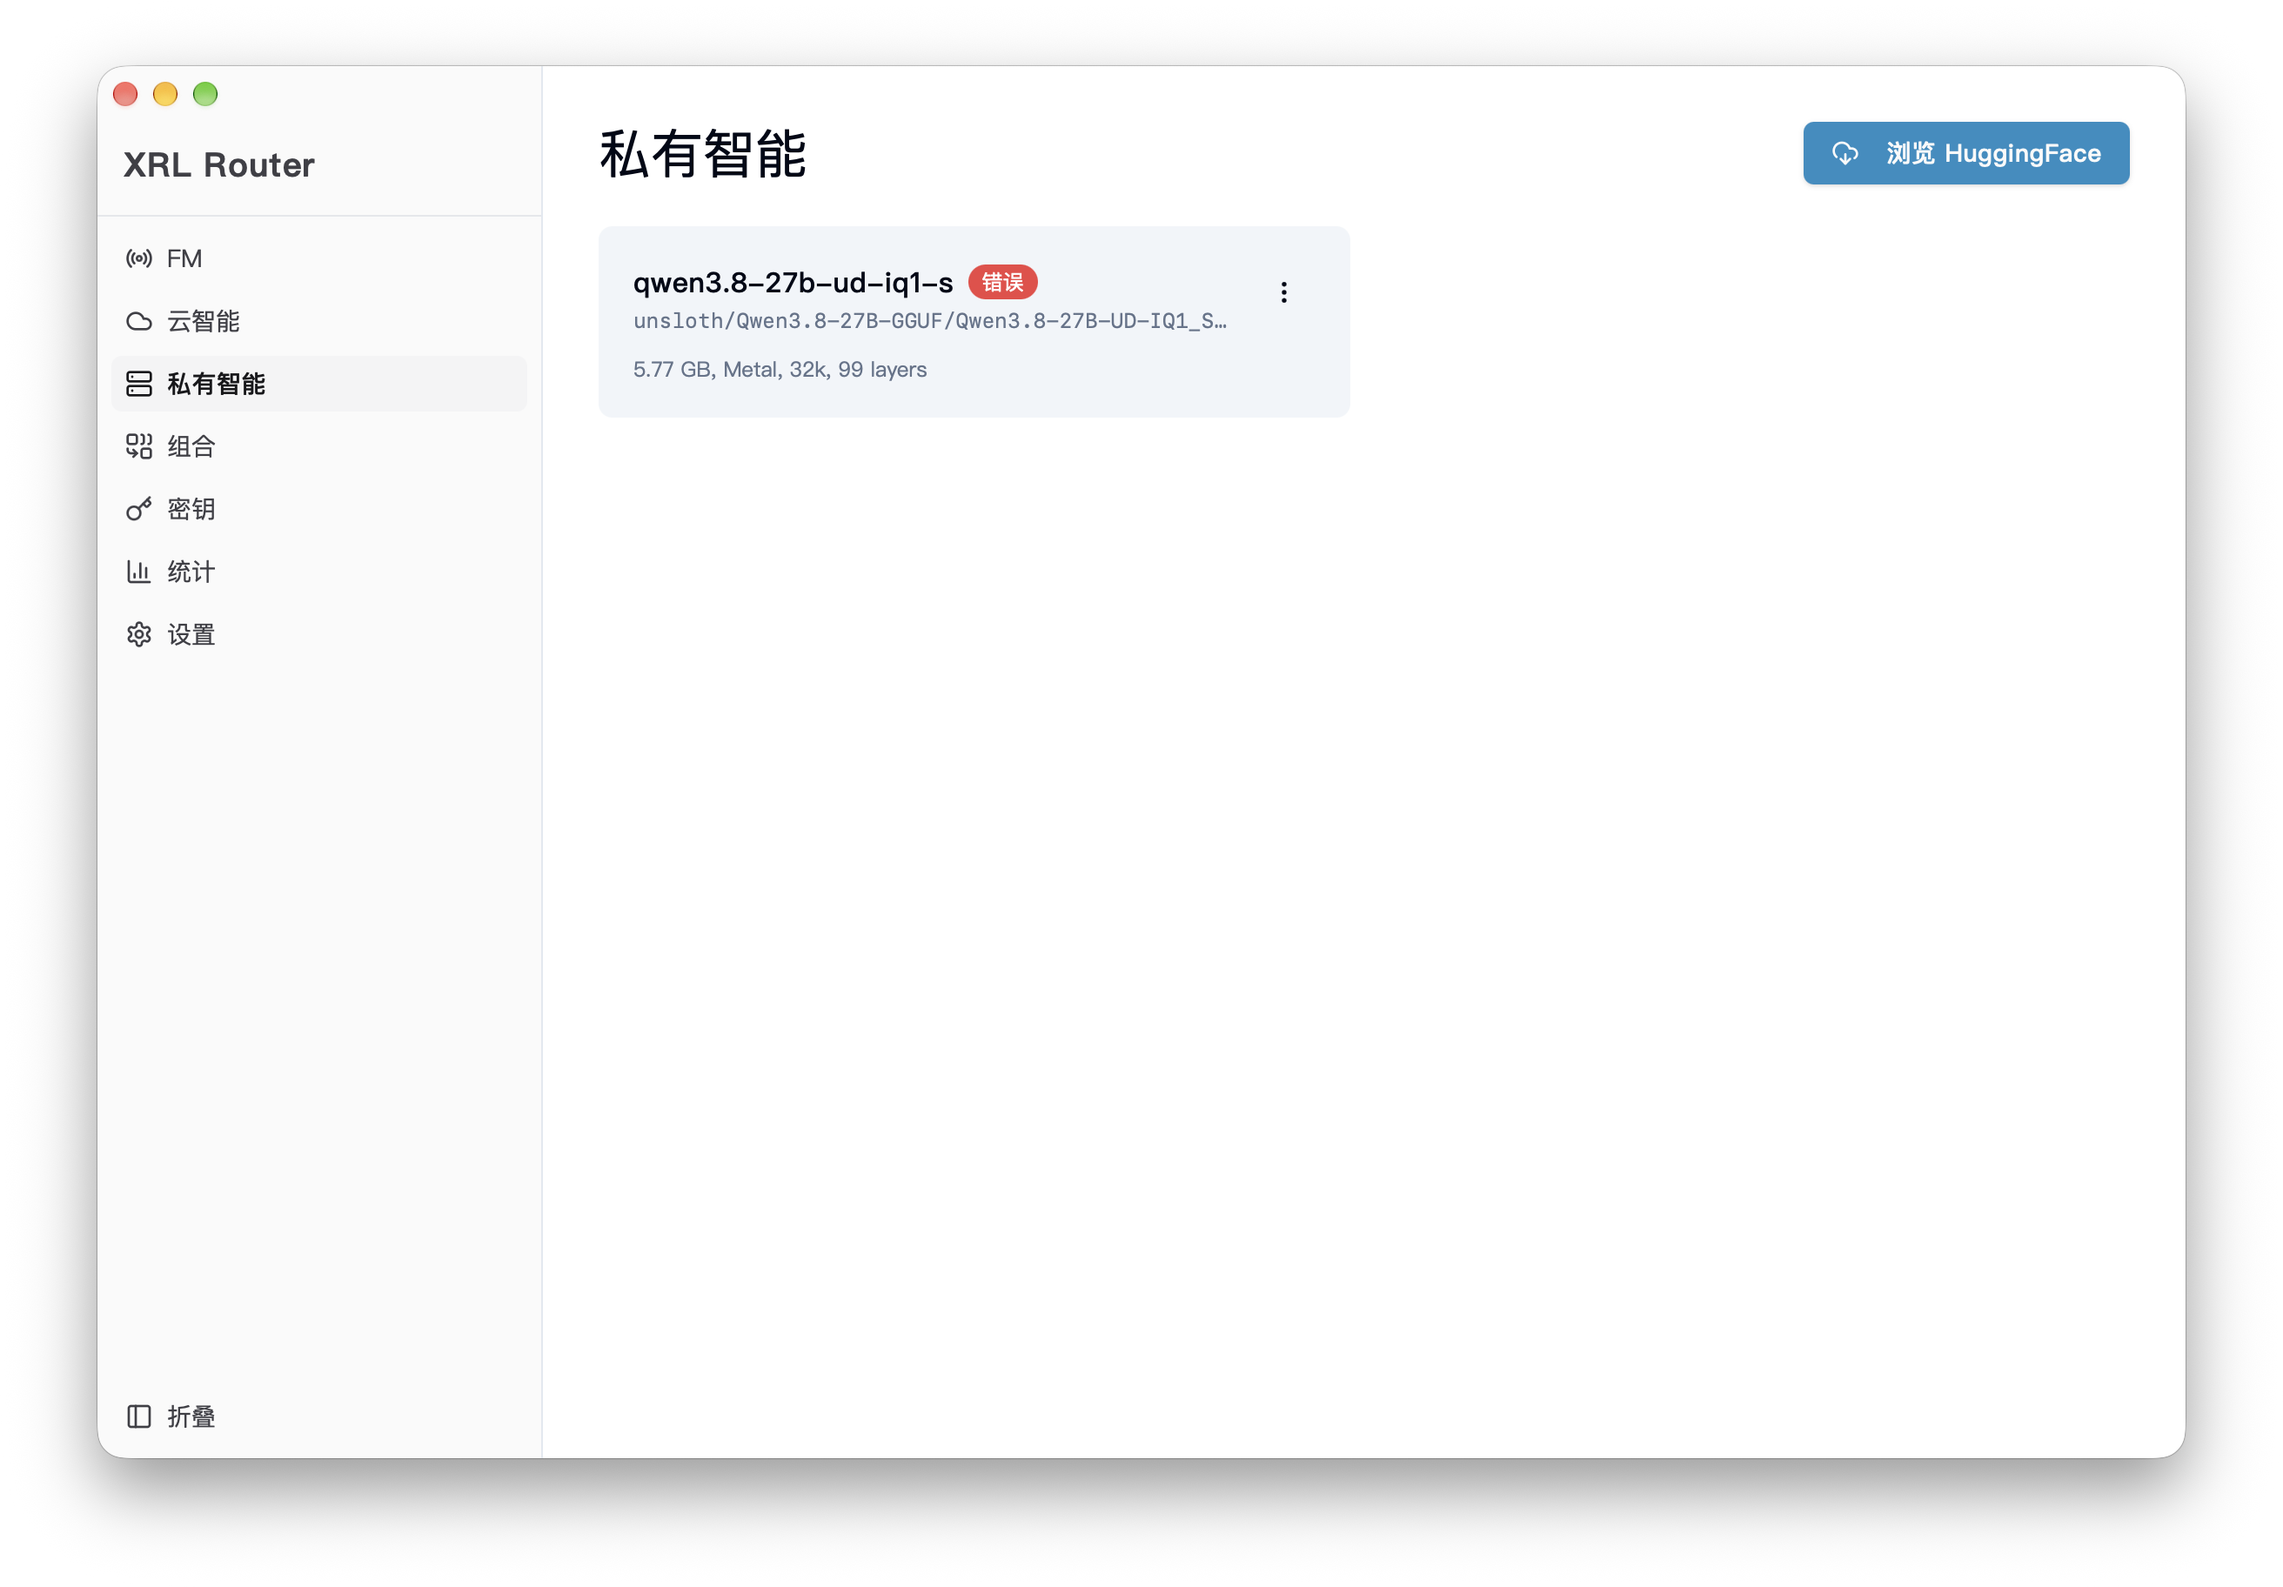
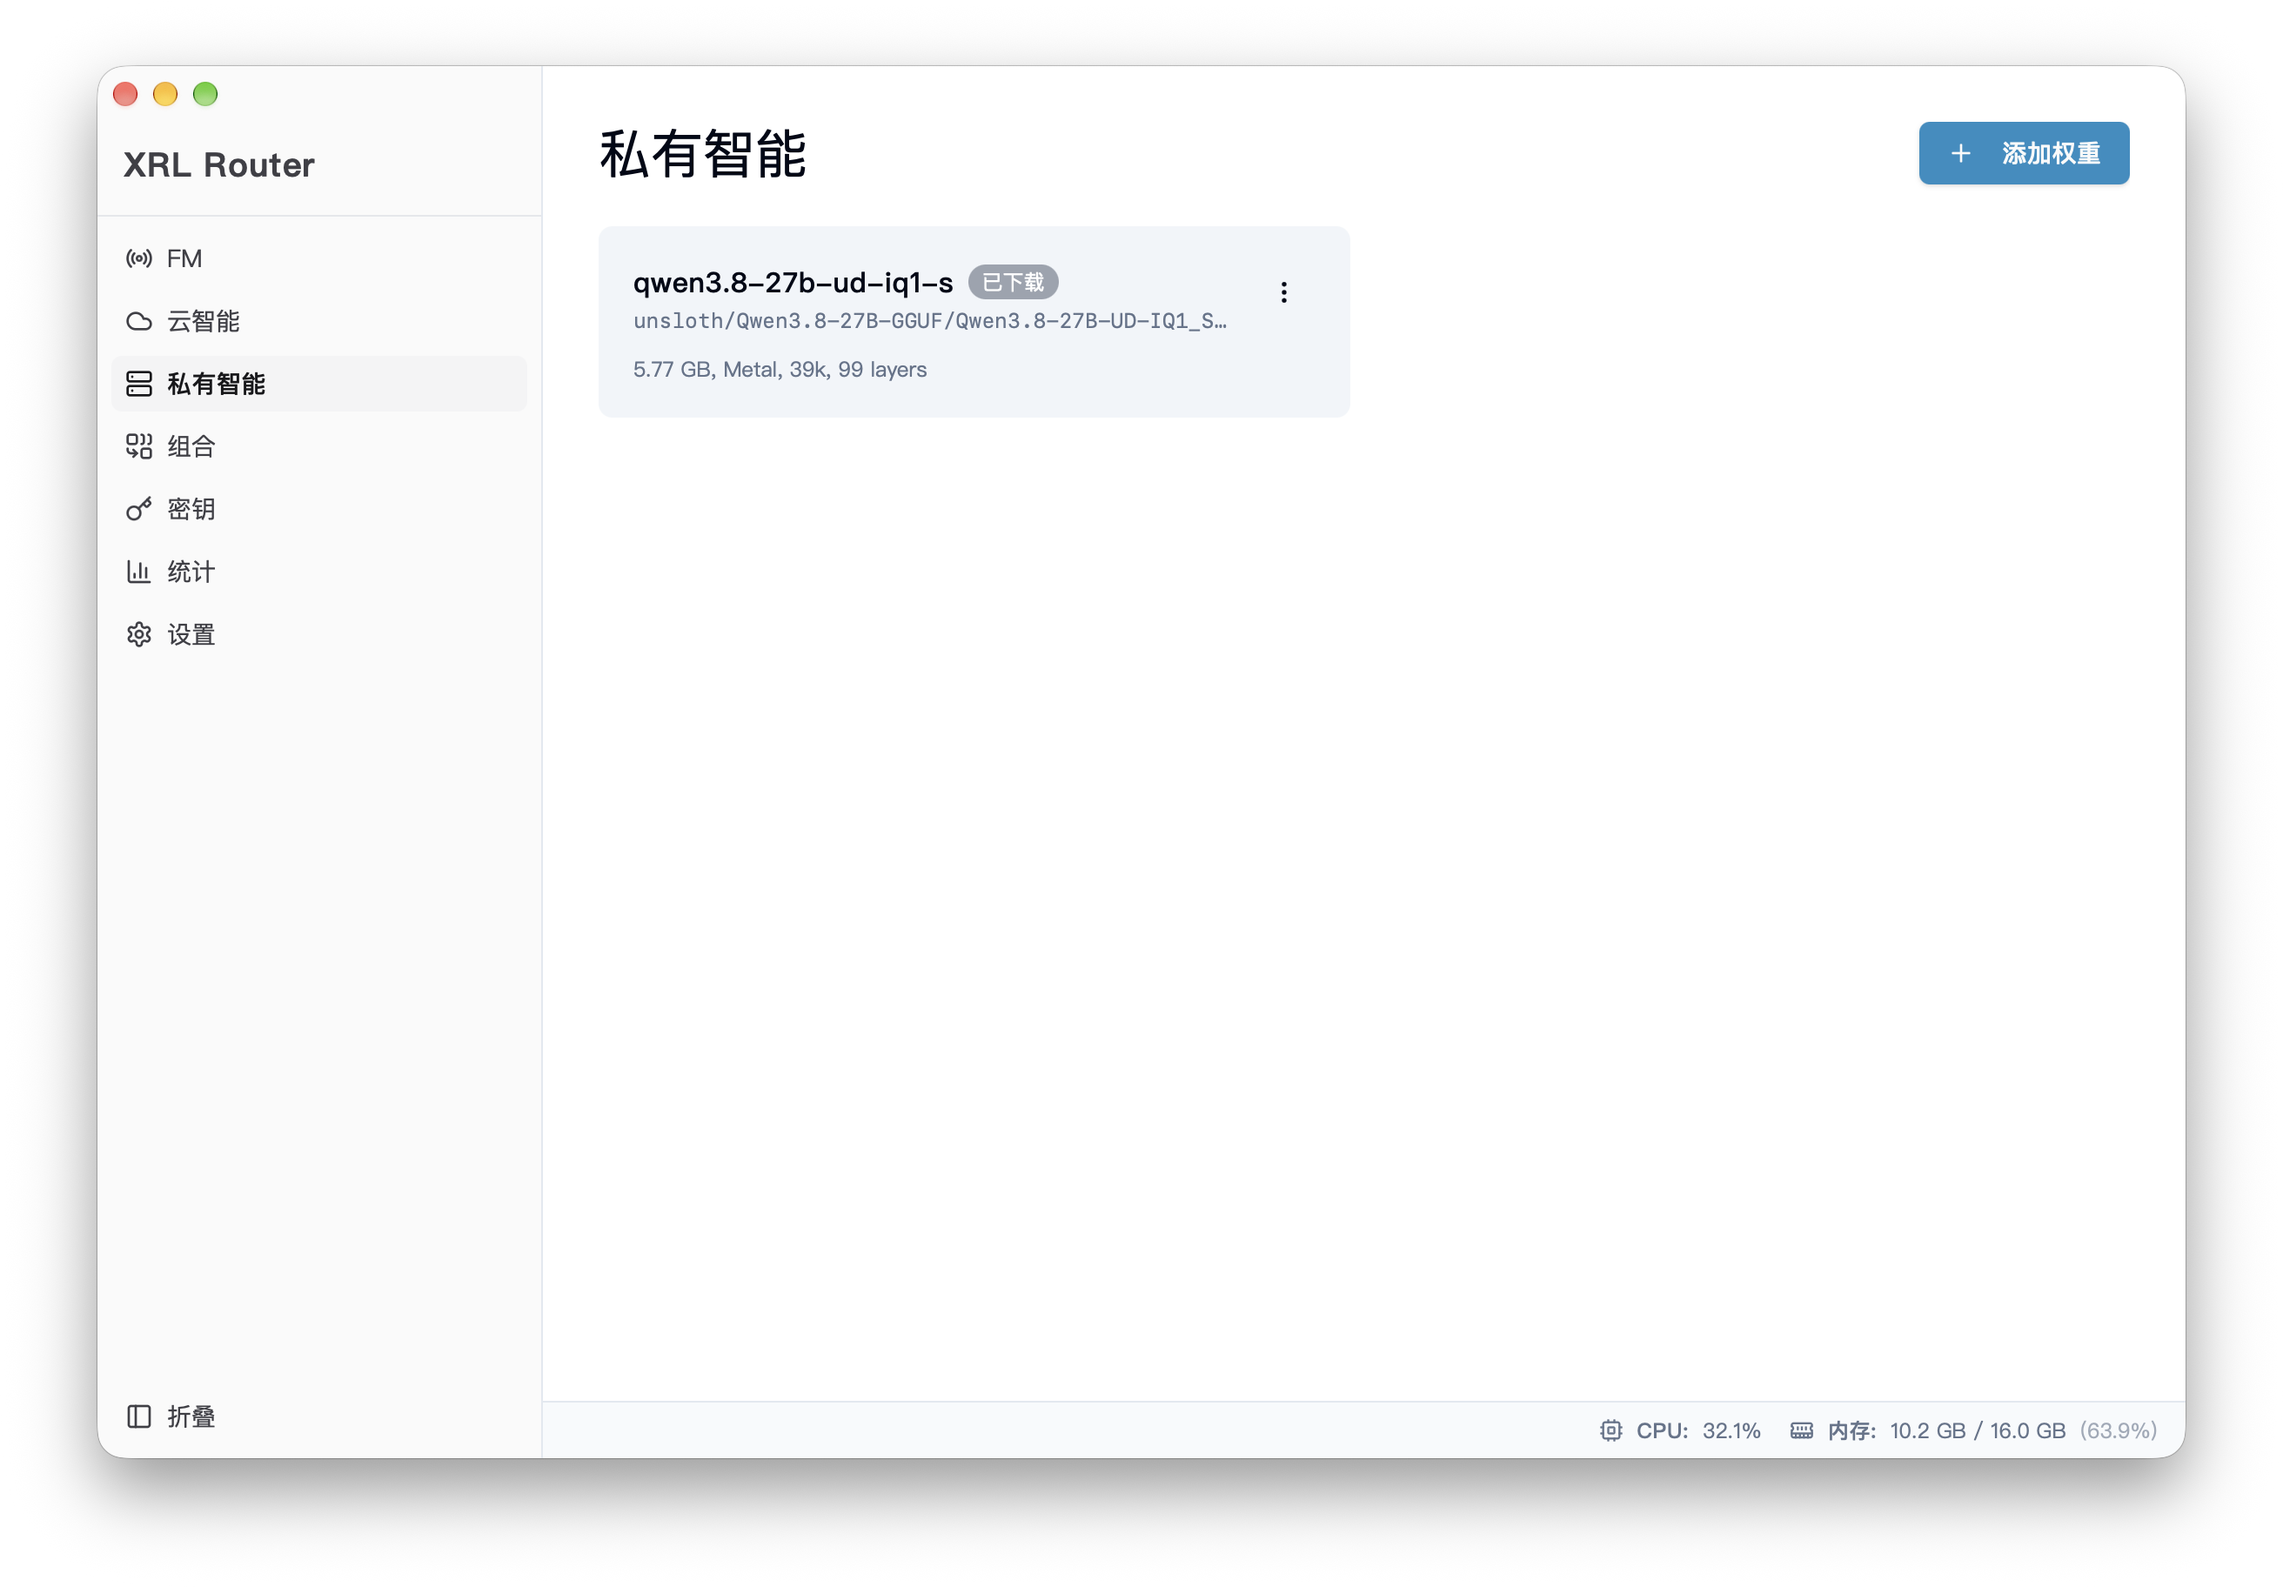
docs: ADR-049 + V21 schema + 截图更新 + 版本号 bump
- DECISIONS.md: 新增 ADR-049 (Windows 壁纸 Z 序锚定, 防盖桌面图标)
- module-database.md: V21 schema 更新 (local_models.thinking 列)
- local.ai.png: 截图更新
- tauri.conf.json: 版本号 bump (26.8.28+2315 → 26.8.29+1410)

Changed region(s): [[0.6875, 0.875, 0.9375, 0.9062], [0.7812, 0.0625, 0.9062, 0.125], [0.4062, 0.1562, 0.4688, 0.1875]]

diff --git a/docs/DECISIONS.md b/docs/DECISIONS.md
@@ -757,3 +757,91 @@ Tauri 默认使用系统原生标题栏。Windows 11 的原生标题栏与自定
 - 首次启动需下载引擎（~50MB），需要网络连接
 - GPU 后端依赖系统驱动（CUDA/Vulkan/ROCm 需预装）
 
+---
+
+## ADR-049: Windows 壁纸 Z 序锚定（防盖桌面图标）
+
+**日期**: 2026-08-29  
+**状态**: 已接受
+
+### 背景
+
+ADR-043 的透明 WebView + WorkerW 挂载真机反馈：**壁纸窗口盖住桌面图标**。
+挂载链本身正确（`SetParent` 成功、子窗枚举验证通过），问题全在 Z 序：
+
+1. Win8+ `SetParent` 对 popup 风格窗口只做"重设父链"，窗口仍留在顶层
+   Z 序（ADR-042 注记的历史结论）——在宿主内盖住 `SHELLDLL_DefView` 链
+   （桌面图标层）；
+2. `fit_monitor` 的 `SetWindowPos` 未带 `SWP_NOZORDER`，默认 `HWND_TOP`
+   会把壁纸窗顶到宿主上层，进一步加重盖图标。
+
+### 决策
+
+1. **Z 序锚定**（`ensure_bottom_zorder`）：挂载后手动转 `WS_CHILD`
+   （清 `WS_POPUP`）使窗口真正参与宿主子窗 Z 序，`SetWindowPos(
+   HWND_BOTTOM, SWP_NOMOVE|SWP_NOSIZE|SWP_NOACTIVATE)` 沉到宿主最底——
+   位于 `SHELLDLL_DefView` 链之下；首次失败 250ms 重试一次，仍失败不
+   致命（复查兜底）；
+2. **验证 = `GW_HWNDNEXT`**：壁纸窗之下无兄弟窗即锚定生效；有则说明
+   系统仍在重排窗口树，由调用方重试；
+3. **后续不扰 Z 序**：`fit_monitor` 的 `SetWindowPos` 补 `SWP_NOZORDER`
+   （否则默认 HWND_TOP 会撤销锚定）；
+4. **show 后复查**：show / WebView2 初始化可能重排宿主子窗，故 `show()`
+   后 1.5s 在主线程复查一次并幂等重锚（`recheck_zorder`），失败仅 warn。
+
+### 备选与权衡
+
+- **建窗即 `WS_CHILD` 子窗**（ADR-042 GDI 版做法）：tauri builder 不暴露
+  该样式，仍需运行时 `SetWindowLongPtr` 补——与现方案等价，无收益；
+- **照社区插件只做 SetParent**：已核实 `tauri-plugin-desktop-underlay`
+  源码不做任何 Z 序处理（仅 `SetParent`），靠系统默认排序在部分真机上
+  即复现盖图标 → 否决。
+
+### 代价
+
+- 挂载链多两次重试 + 一次延迟复查的主线程 dispatch，代码复杂度上升；
+- 锚定依赖宿主子窗 Z 序语义，未来 Windows 布局变化需重新验证（与
+  ADR-041/043 的 WorkerW 配方同命运）。
+
+---
+
+## ADR-050: 本地模型路由优先与云智能管理面隔离
+
+**日期**: 2026-08-29  
+**状态**: 已接受
+
+### 背景
+
+本地模型（私有智能）以普通 Provider 身份注册进网关，与云端 Provider 共用同一套路由管线。
+两个问题浮现：
+
+1. **路由优先级缺失**：`resolve_route_candidates()` 按 `sort_order ASC, created_at ASC` 排序，
+   本地引擎注册时取 `next_sort_order()`（追加到末尾），导致同名模型云端 Provider 反而优先。
+2. **管理面泄漏**：`/api/providers` 返回全部 Provider（含 `local-*` 前缀的本地引擎），
+   云智能页面（ProvidersView）出现「本地 · X」卡片，与私有智能独立管理页职责重叠。
+
+### 决策
+
+1. **路由优先级**：组合 > 私有智能 > 云智能。`resolve_route_candidates()` 的 ORDER BY 改为
+   `CASE WHEN tier='local' THEN 0 ELSE 1 END, sort_order ASC, created_at ASC`——本地模型恒优先，
+   其后按 sort_order 排序。组合别名解析（`resolve_combo()`）先展开成员，成员内部同样遵循此优先级。
+2. **管理面隔离**：`/api/providers` 过滤 `local-*` 前缀（云智能页面不显示本地引擎），但
+   `/api/models` 和 `/api/keys` 不过滤——组合成员选择器和密钥白名单弹窗需要看到私有模型。
+3. **名称冲突检查**：本地模型创建/编辑时通过 `alias_taken()` 同时检查 models 表和 combos 表，
+   防止与组合名冲突。
+
+### 原因
+
+1. **概念对齐**：云智能、私有智能、组合三者都是"模型提供者"，判定按逆序搜索最近可用的别名。
+   组合成员选择器必须能看到私有模型（否则无法用私有模型做成员），密钥白名单弹窗必须能看到
+   私有模型（否则无法授权）。
+2. **职责分离**：私有智能有独立管理页（LocalModelsView），不应在云智能页面重复出现。
+3. **用户预期**：本地模型启动后，用户期望优先使用本地引擎（低延迟、数据不出机），而非云端。
+
+### 代价
+
+- 本地模型从 ProvidersView 的拖拽排序载荷中消失（保留旧 sort_order，tier 优先下无害）；
+- 组合成员选择器无法通过 UI 直接选择本地模型（但手填别名仍可解析，`validate_members`
+  接受任何存在的 display_name）；
+- 路由优先级依赖 `tier='local'` 字段，仅 `LocalManager::register_provider()` 写入，
+  前端无法手动设置（ProviderFormView 默认 `tier='custom'`）——单用户本地应用可接受。

diff --git a/docs/specs/module-database.md b/docs/specs/module-database.md
@@ -61,8 +61,9 @@ pub fn migrate(db: &Database) -> Result<()> {
 | V18 | 新增 combos / combo_members 表 + 索引（组合别名：多个模型别名按顺序捆绑，路由时依次尝试直到可用） |
 | V19 | MCP 桌面通知工具 notify 的设置键：`mcp_notify` 默认行 |
 | V20 | 新增 local_models 表（本地模型私有化：GGUF 权重 + llama-server 引擎运行时元数据） |
+| V21 | local_models 新增 thinking 列（思考模式开关，默认 1，引擎启动时映射 `--reasoning on\|off`） |
 
-## 当前表结构（V20 最终状态）
+## 当前表结构（V21 最终状态）
 
 ### providers
 
@@ -245,7 +246,7 @@ CREATE TABLE plugins (
 
 **注意**: `provider_id` 使用 `ON DELETE SET NULL`（非 CASCADE），删除 provider 时插件记录保留但 provider_id 置空。
 
-### local_models（V20：本地模型）
+### local_models（V20 + V21：本地模型）
 
 ```sql
 CREATE TABLE local_models (
@@ -265,6 +266,8 @@ CREATE TABLE local_models (
     created_at INTEGER NOT NULL,
     updated_at INTEGER NOT NULL
 );
+-- V21 追加（ALTER TABLE，物理列在表尾）：
+-- thinking INTEGER NOT NULL DEFAULT 1   -- 思考模式：1 = --reasoning on，0 = off
 
 CREATE INDEX idx_local_models_status ON local_models(status);
 ```
